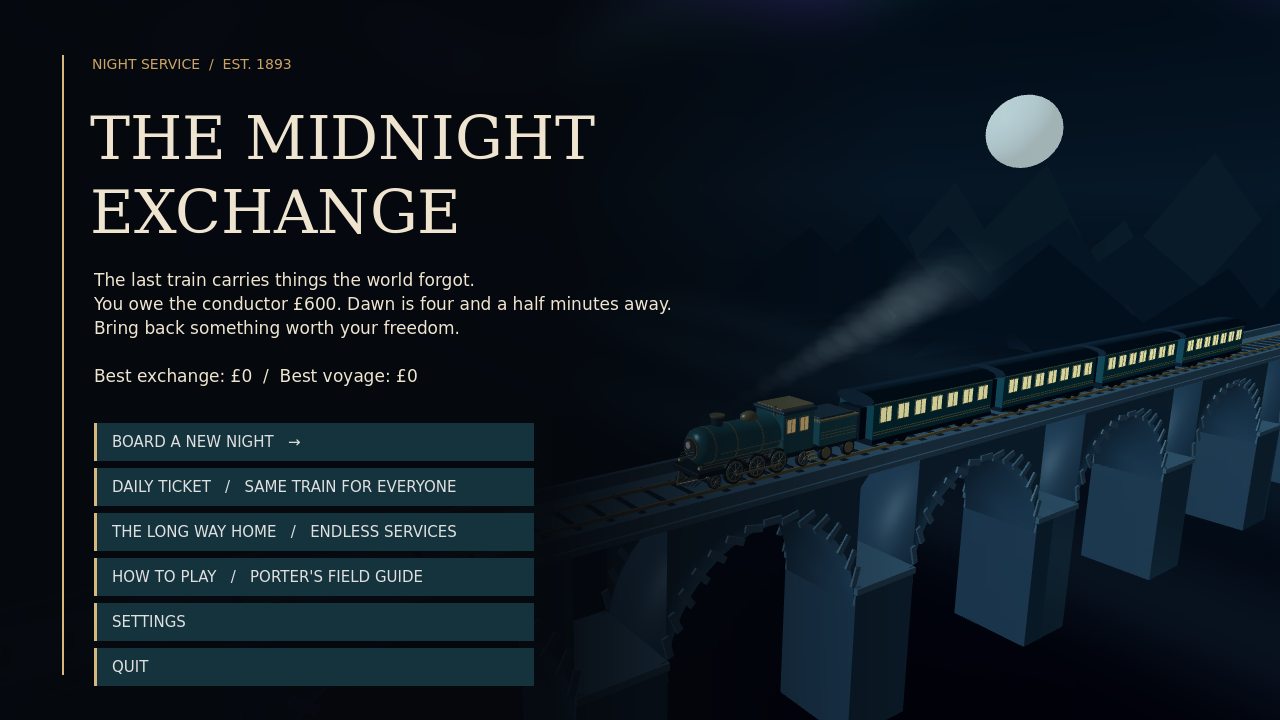
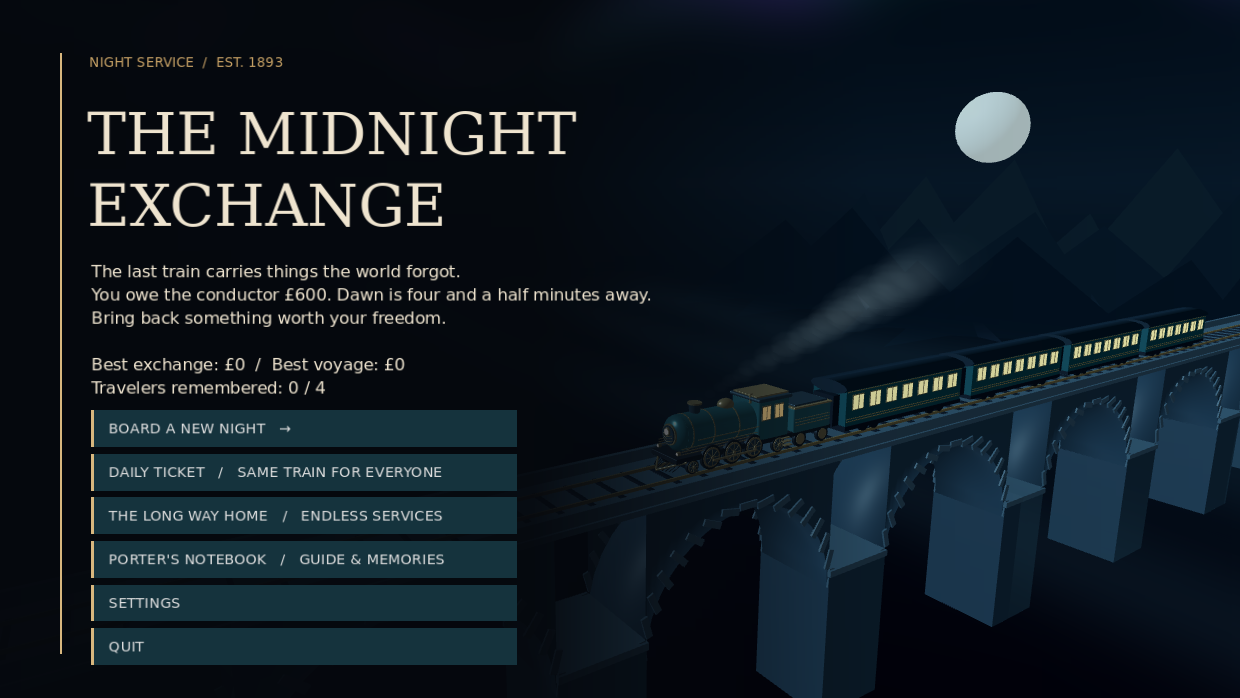
Remember rescued travelers across nights in the porter's notebook

diff --git a/docs/DESIGN.md b/docs/DESIGN.md
@@ -6,7 +6,7 @@ A native Windows 10/11 game built in Godot 4.6.3: first-person magical freight s
 
 Explore seven carriages, pack three relics and bank £600 to buy freedom. The first two deliveries grant a free choice of more capacity, quicker movement or quieter lining. A stolen hour adds eighteen seconds when banked. Each bell increases all carried freight by 25% but makes the porter easier to hear. A folded doorway sacrifices its own value to return the remaining cargo home. Aurora muffles the porter and restores composure when banked.
 
-Four passenger commissions consume particular relics for sealed fares. These occupy no satchel slots and survive capture, but must still be banked. Bell bonuses apply to carried freight; sealed fares retain their quoted value. Helped travelers appear at the dawn platform. The paused route ledger shows requests, current carriage locations, completed thanks and pending fares.
+Four passenger commissions consume particular relics for sealed fares. These occupy no satchel slots and survive capture, but must still be banked. Bell bonuses apply to carried freight; sealed fares retain their quoted value. Helped travelers appear at the dawn platform. Winning after helping them unlocks four original first-morning epilogues, kept in the porter's notebook across tickets. This adds a story goal without changing run difficulty. The paused route ledger shows requests, current carriage locations, completed thanks and pending fares.
 
 The conductor patrols the central aisle and responds to noise. Quiet side refuges let him pass. Capture restores carried freight to its moving displays and costs fifteen seconds, preserving savings, upgrades and sealed fares. The choir’s brass organ stop can call him toward its carriage for eighteen seconds, once per service. Nearby noise overrides that diversion; its destination follows the moving organ and respects the sanctuary boundary.
 
@@ -43,7 +43,7 @@ There are no runtime network services or package dependencies. Asset-generation 
 `scripts/validate.sh` checks process exit status and engine/script errors, then runs:
 
 - 103,035 state checks, including 25,000 randomized actions and 1,000 deterministic train orders.
-- Profile recovery/replacement, mixed indexed geometry, fifty sound checks and ten conductor checks.
+- Profile recovery/replacement, legacy-profile migration and remembered-traveler rules, mixed indexed geometry, fifty sound checks and ten conductor checks.
 - Three scene seeds exercising actual interactions, focused Tab input, floor/window collision, quiet evasion, bell dropping, the moving organ diversion, capture and UI transitions.
 - A 228m walking/economy soak with twelve physical pickups, two rotations, £655 extraction, dawn and a harder service restart. This harness isolates the conductor; the scene encounter tests exercise live threat.
 

diff --git a/docs/DEVELOPMENT_LOG.md b/docs/DEVELOPMENT_LOG.md
@@ -190,3 +190,13 @@ Single-step bevels keep the small trim and key highlights while reducing the mod
 The modeled draft passed the full validator. After bevel reduction, geometry, scene smoke and the walking route passed again. Fresh Linux standalone smoke and Windows-through-Wine smoke/rendering passed with the final model. Close and carriage-wide views were inspected. scripts/model_organ.py reproduces the asset. Current design documentation now lives in DESIGN.md, with historical checkpoint details retained here.
 
 Organ-interaction revision fc62989 passed native Windows CI (run 40932350113). This model revision still needs its own CI result. No final release has been declared.
+
+## The people remembered
+
+Winning after helping a traveler now records that person's first morning in the porter's notebook. Four original epilogues give separate tickets a persistent story goal without changing freight, difficulty or rewards. The notebook opens from the title's guide page, previews unmet requests, selects an already remembered traveler by default, and shows progress on the title. Escape closes title pages and returns results to a rebuilt title scene; the scene test checks this with a focused notebook button.
+
+Profile version two adds a four-bit record of remembered travelers. Older scores/settings remain intact, losses keep old memories without granting new ones, and repeated wins merge the record. Fractional, nonfinite and out-of-range memory data is rejected. Thirty-six profile checks cover migration, outcomes, corrupt fields, serialization and replacement. The exported scene smoke also replaces an isolated profile containing these records.
+
+The full validator passed. A presentation fixture used the real winning-run hook to unlock all four, navigated through the actual notebook buttons and returned to a title showing 4/4; it did not write the user's save. Locked and all four unlocked pages were inspected. Fresh Linux standalone and Windows-through-Wine smoke passed, including the focused Escape checks. The Windows export rendered the notebook, four-traveler result and fresh title without errors. The public notebook screenshot shows the locked page to preserve the epilogues' discovery.
+
+Modeled-organ revision 9ab557b passed native Windows CI (run 40935138870). This notebook revision still needs its own CI result. No human playtest or final release has been declared.

diff --git a/README.md b/README.md
@@ -4,11 +4,13 @@ A native 3D game about impossible freight on the last train before dawn. Built i
 
 ![The midnight service crosses the viaduct](docs/screenshots/title.png)
 
-You owe the conductor £600. Explore seven art-deco carriages, decide which relics fit in your satchel, and bring them back to the exchange. Bells multiply carried freight but attract attention. Stolen hours buy time. A folded doorway can save a long walk home. The timetable lever moves the last carriage to the front—along with whatever, or whoever, is inside. Shunt neighboring carriages to awaken resonance bonuses. Four passenger commissions trade your tools for sealed fares and a different dawn. An escalating endless-service mode tracks your whole voyage.
+You owe the conductor £600. Explore seven art-deco carriages, decide which relics fit in your satchel, and bring them back to the exchange. Bells multiply carried freight but attract attention. Stolen hours buy time. A folded doorway can save a long walk home. The timetable lever moves the last carriage to the front—along with whatever, or whoever, is inside. Shunt neighboring carriages to awaken resonance bonuses, or play the choir's organ to draw the conductor away.
+
+Four passenger commissions trade your tools for sealed fares and a different dawn. Win after helping them to keep their first-morning stories in the porter's notebook across later tickets. An escalating endless-service mode tracks your whole voyage.
 
 ![The winter garden and freight manifest](docs/screenshots/night-service.png)
 
-[Passing villages beyond the carriage windows](docs/screenshots/window-view.png) · [Planning at the switchboard](docs/screenshots/switchboard.png) · [The choir's one voice](docs/screenshots/choir.png).
+[Passing villages beyond the carriage windows](docs/screenshots/window-view.png) · [Planning at the switchboard](docs/screenshots/switchboard.png) · [The choir's one voice](docs/screenshots/choir.png) · [The porter's notebook](docs/screenshots/notebook.png).
 
 ## Playing
 

diff --git a/PLAYER_GUIDE.md b/PLAYER_GUIDE.md
@@ -52,7 +52,7 @@ Bank an early delivery for a free upgrade. A bell is worth more when the rest of
 ## Local data
 
 Windows: `%APPDATA%/Godot/app_userdata/The Midnight Exchange/porter.json`.
-Only settings and the personal best are stored. Deleting this file resets them. There is no telemetry.
+Settings, personal bests and remembered travelers are stored here. Deleting this file resets them. There is no telemetry.
 
 The game uses Godot Engine and DejaVu fonts. Their license notices are included beside the executable. Game models, textures, icons and audio were created for The Midnight Exchange; generation scripts are included in the source repository.
 
@@ -67,6 +67,10 @@ Press Tab to open the route ledger. It shows the current order of the carriages 
 Four travelers have unfinished business. Speak with E when facing one nearby. Each needs a particular kind of relic and offers a sealed fare in exchange. Accepting a commission consumes that relic; the fare does not occupy a satchel slot and survives a conductor encounter. Return to the exchange to bank it. Each passenger can be helped once per run. They travel with their carriage when you turn the timetable.
 
 Press Tab and choose **Passenger commissions** to review requests, current carriage numbers, offers and the travelers you have helped. The ledger also shows the sealed fares still waiting to be banked. Its **Resonance couplings** button returns to the pairing bonuses.
+
+## The notebook
+
+From the title, choose **Porter's notebook**, then **Travelers remembered**. Helping a traveler and winning that night unlocks a short epilogue about their first morning. These memories stay across tickets; remember different travelers on separate journeys. Escape closes notebook and other title pages, and returns from results to the platform menu.
 
 ## The switchboard and resonances
 

diff --git a/RELEASE_NOTES.md b/RELEASE_NOTES.md
@@ -1,6 +1,8 @@
 A standalone native 3D game for Windows 10/11 (64-bit), with a Linux build included.
 
-Explore an impossible night train, pack strange freight, evade the conductor, and turn the timetable to rearrange your route. Original procedural architecture, art-deco surfaces and ambient score; random and daily tickets; four relic effects; free delivery upgrades; four passenger stories, a dawn-platform epilogue, escalating endless services, persistent settings and personal bests.
+You owe the conductor £600. Explore an impossible night train, pack strange freight and bring it back before dawn. Turn the timetable to rearrange complete carriages, awaken resonance bonuses, or sound the choir organ to draw the conductor away.
+
+Four travelers offer sealed fares for your tools. Reach dawn after helping them to remember their first mornings in the porter's notebook. Random and daily tickets, delivery upgrades and escalating endless services offer different routes through the night. Original modeled art, carriage soundscapes and a resolved dawn score accompany the journey.
 
 Download **TheMidnightExchange-Windows.zip**, extract it and open **TheMidnightExchange.exe**. No engine installation or network connection is needed. Controls and strategies are included in READ_ME.md.
 
